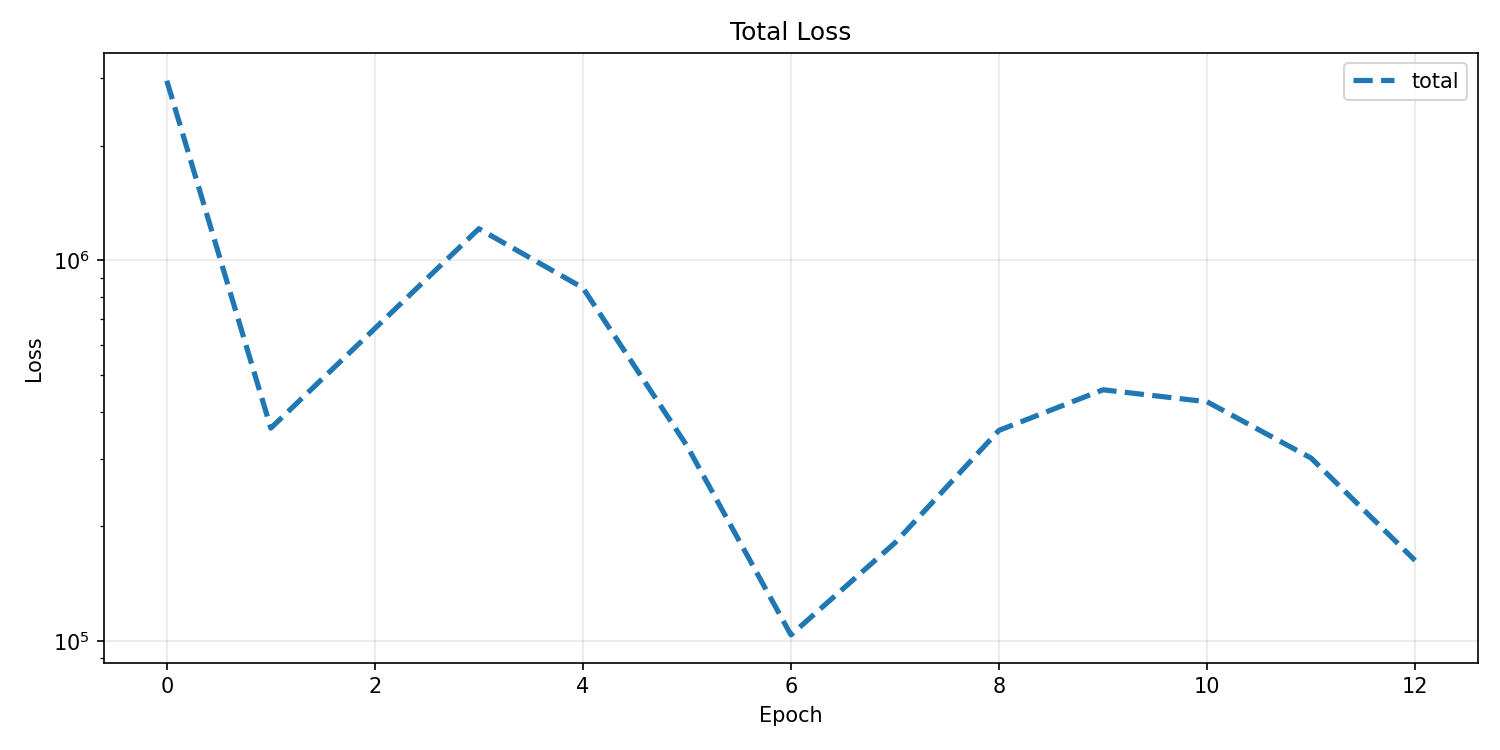
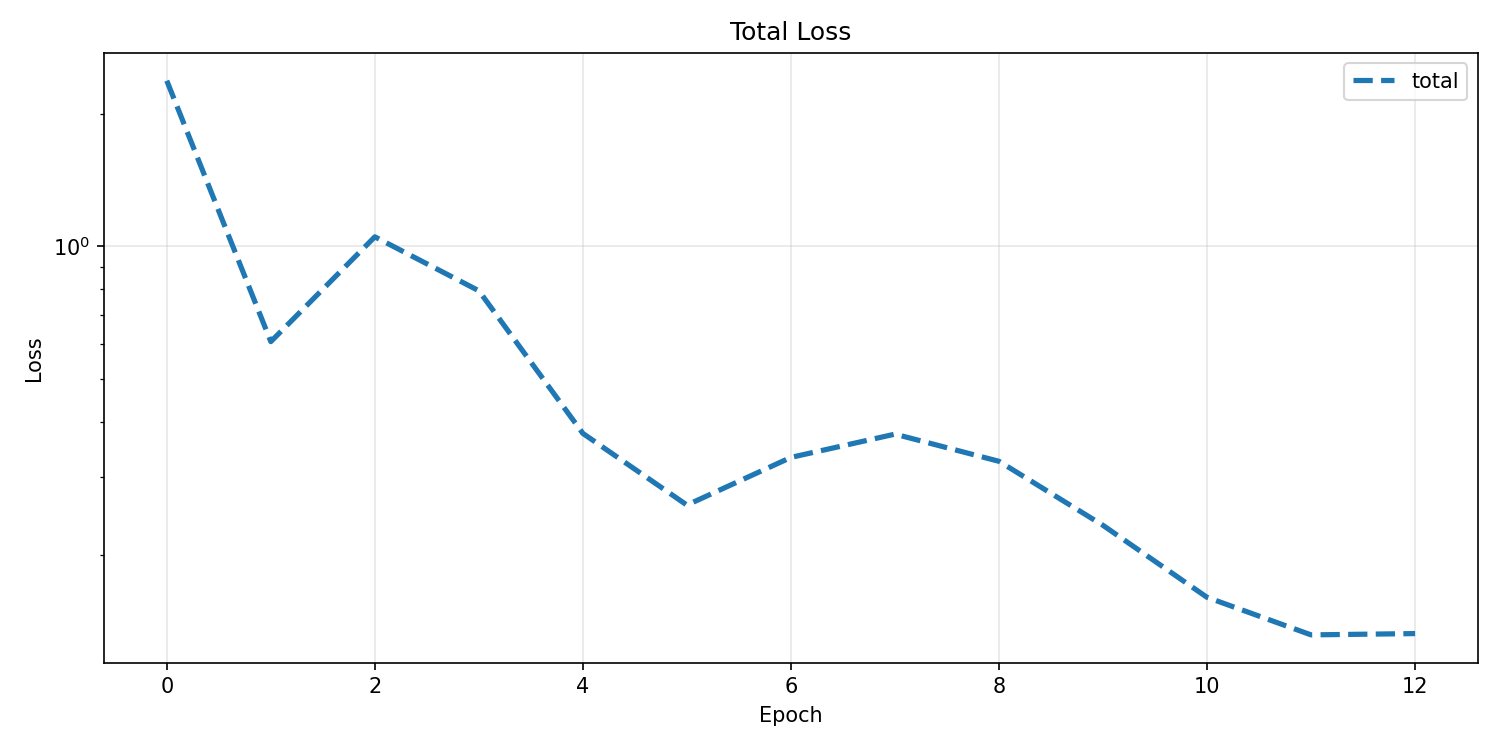
train core only

diff --git a/src/examples/singleplate_powermap/singleplate_powermap.py b/src/examples/singleplate_powermap/singleplate_powermap.py
@@ -27,7 +27,7 @@ grid.width=20
 ''' DEFINE MODEL '''
 model_dir = Path(r'checkpoints').resolve()
 util_data.clear_dir(model_dir)
-model = PowerMapPlateModel(plate=plate, grid=grid, temp_scale=100, model_dir=model_dir)
+model = PowerMapPlateModel(plate=plate, grid=grid, temp_scale=100, model_dir=model_dir, core_only=True) # train on just core to troubleshoot
 model.default_model(num_blocks=6, num_hidden=512, lr=0.0001, wt_decay=0.0001, device='cuda:0')
 
 ''' TRAIN MODEL '''
@@ -44,7 +44,7 @@ util_example.train_example(
 )
 
 ''' EVAL MODEL WITH ANALYTICAL SOLUTION '''
-# returns none if empty dir
-analytical_pairs = util_data.load_pwrmp_data(Path(r'../../ground_truth').resolve())
+# TODO: mag pls help
+analytical_pairs = util_data.load_pwrmp_data(Path(r'../../ground_truth').resolve()) # returns none if empty dir
 eval_data = [analytical_pairs[0]] # should match wih power_sources for initial case
-util_example.eval_plate_example(model, eval_data, train_dir)
+# util_example.eval_plate_example(model, eval_data, train_dir)

diff --git a/src/model_thermal.py b/src/model_thermal.py
@@ -52,6 +52,7 @@ class PowerMapPlateModel(ThermalModel2D):
         self.model.eval()
 
         # with torch.no_grad():
+        # eval plate is always core only
         bc = self.plate.boundaries['core']
         power_map = bc.build_power_map(self.grid_map, [power], self.device)
         mod_in = self._build_input(power_map)
